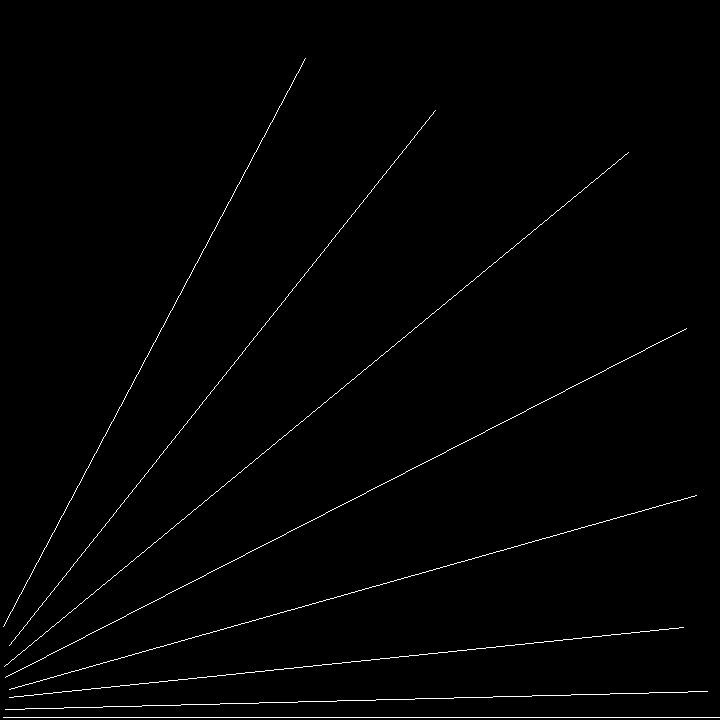
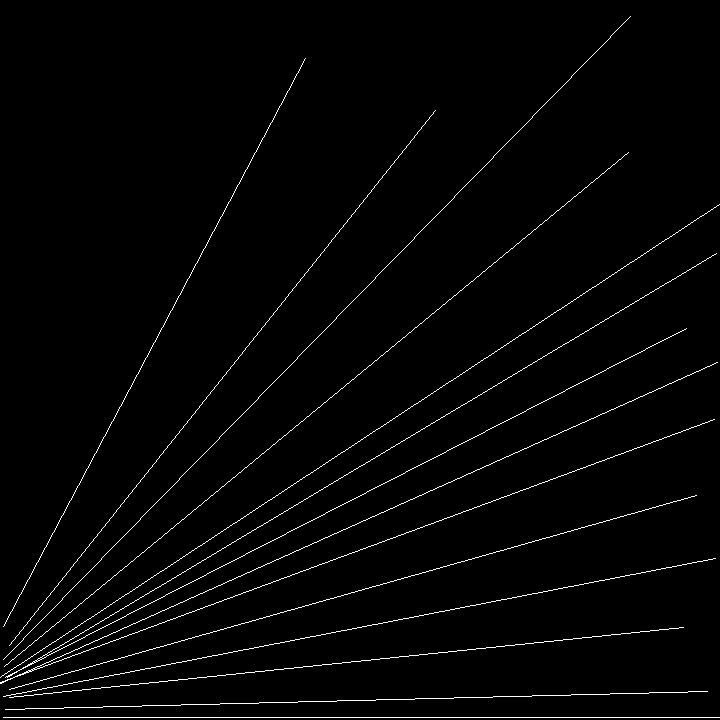
Testes

Changed region(s): [[0.0611, 0.8861, 0.1222, 0.9167], [0.0, 0.9167, 0.0611, 0.9472]]

diff --git a/image_processing.py b/image_processing.py
@@ -97,7 +97,7 @@ def hough_transform(image):
     # tuning min_threshold, minLineLength, maxLineGap is a trial and error process by hand
     rho = 1  # distance precision in pixel, i.e. 1 pixel
     angle = np.pi / 360  # angular precision in radian, i.e. 1 degree
-    min_threshold = 30  # minimal of votes
+    min_threshold = 20  # minimal of votes
     #line_segments = cv2.HoughLinesP(cropped_edges, rho, angle, min_threshold, np.array([]), minLineLength=8, maxLineGap=4)
     #line_segments = cv2.HoughLines(cropped_edges, rho, angle, min_threshold, np.array([]))
     line_segments =cv2.HoughLines(image, rho, angle, min_threshold, None, 0, 0)
@@ -128,7 +128,7 @@ def display_lines_2pts(frame, pt1, pt2, line_color=(0, 255, 0), line_width=2):
 
 
 
-def filter_vertical_lines(lines, sine_limit=0.9):
+def filter_vertical_lines(lines, sine_limit=0.84):
 
     ok_lines = []
     if lines is not None:
@@ -186,7 +186,7 @@ right_line_accum = [np.array([[-81.       ,   2.5132742]], dtype=np.float32)]
 
 
 
-def accumulator(left_line, right_line):
+def accumulator(left_line, right_line, accum_max_size = 3):
 
     global right_line_accum, left_line_accum
     #print('recebido', left_line, right_line)
@@ -199,7 +199,6 @@ def accumulator(left_line, right_line):
         right_line_accum.append(right_line[0])
 
     
-    accum_max_size = 5
     
     # deleta primeiro termo se tiver mais q 5 linhas
     if len(left_line_accum) > accum_max_size:
@@ -244,8 +243,8 @@ def filter_strange_line(left_line, right_line):
     #     left_antiga = left_line
 
     # thresholds de diferença para excluir a linha nova
-    theta_lim = 0.5
-    rho_lim = 20
+    theta_lim = 0.2
+    rho_lim = 15
     count_lim = 15
 
 
@@ -351,17 +350,6 @@ def image_processing4(img_gray):
     right_line = get_average_line(right_lines)
 
 
-
-    # filtrar antes de pegar a média?
-    left_line, right_line = filter_strange_line(left_line, right_line)
-
-    left_line, right_line = accumulator(left_line, right_line)
-
-
-
-    # encontra os parâmetros
-    bisec_pt, intersec, theta, del_x = get_bisector(left_line,right_line)
-
     # converte para rgb
     roi_img_rgb = cv2.cvtColor(roi_img,cv2.COLOR_GRAY2RGB)
 
@@ -371,6 +359,19 @@ def image_processing4(img_gray):
     display_lines(roi_img_rgb, right_line)
  
     cv2.imshow('Hough Lines and Lane', roi_img_rgb)
+
+    left_line, right_line = accumulator(left_line, right_line, 5)
+
+    # filtrar antes de pegar a média?
+    left_line, right_line = filter_strange_line(left_line, right_line)
+
+    #left_line, right_line = accumulator(left_line, right_line, 5)
+
+
+
+    # encontra os parâmetros
+    bisec_pt, intersec, theta, del_x = get_bisector(left_line,right_line)
+
 
 
     return left_line, right_line, bisec_pt, intersec, theta, del_x
@@ -498,7 +499,7 @@ if __name__ == '__main__':
     path = 'static_road_angle.png'
     #path = 'perfeito.png'
     #path = 'D:\CARLA_0.9.12_win\TCC\static_road_left_only.png'
-    #path = 'D:\CARLA_0.9.12_win\TCC\line2.png'
+    path = 'line2.png'
     #path = 'D:\CARLA_0.9.12_win\TCC\imglank.png'
     #path = 'D:\CARLA_0.9.12_win\TCC\svanish.png'
     img_gray = cv2.imread(path, cv2.IMREAD_GRAYSCALE)

diff --git a/multiplos_sensores.py b/multiplos_sensores.py
@@ -138,7 +138,7 @@ def run_simulation(args, client):
         controlador.setSampleTime(0.01)
         steering = controlador.update(0)
         controlador.setSetPoint(0) # deve se aproximar da coordenada central 360
-        velocidade = 10
+        velocidade = 15
 
         # classe para gestão dos dados
         data = SimulationData()
